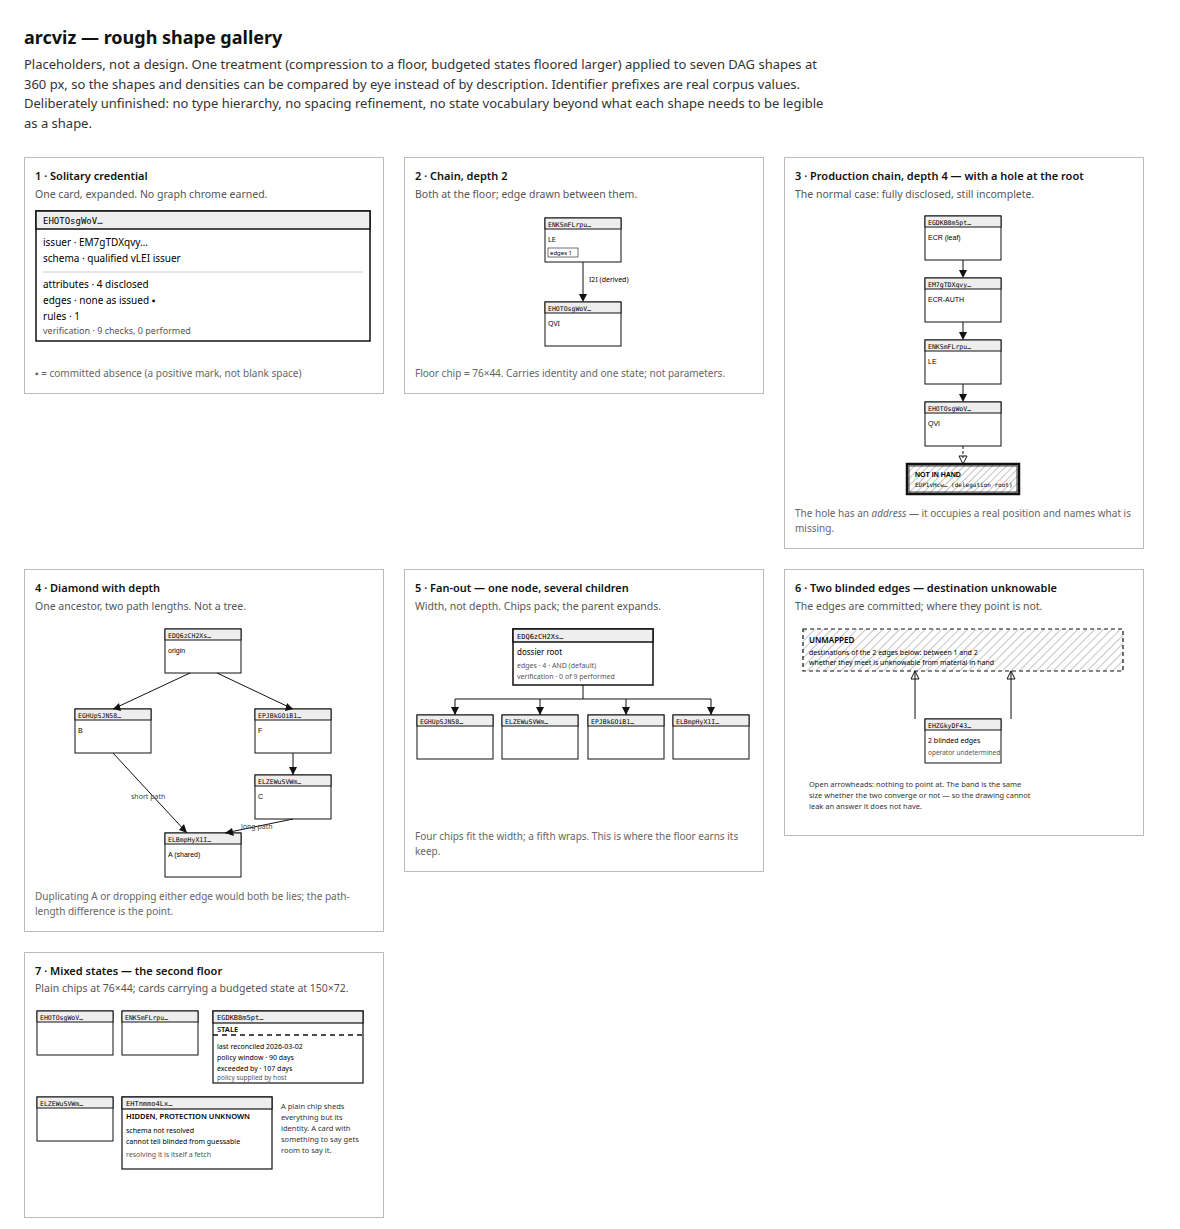
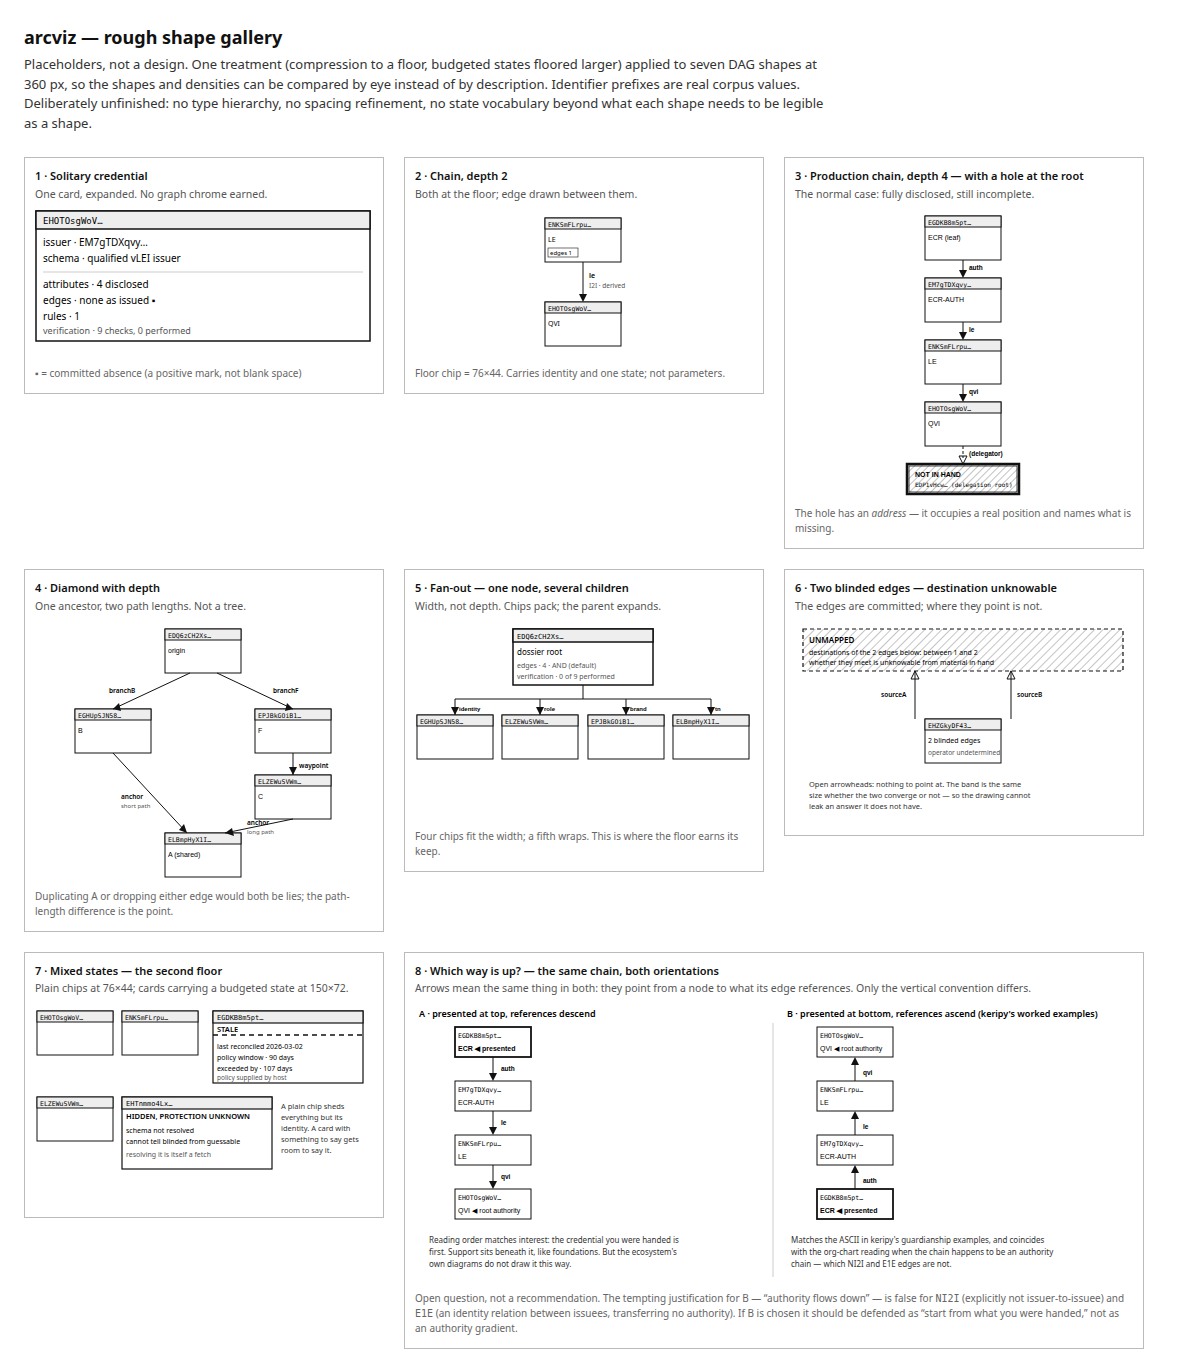
Gallery: label the edges, and draw both orientations
ACDC edges carry a label - the map key in the e section - and that is
where the meaning lives: auth, le, qvi, waypoint, sourceA and sourceB, and
an edge group of unanimous, anyOne, average and weightedAverage. The first
pass drew bare arrows, which say related-somehow where the credential said
something specific. Labels now sit alongside the derived operator.

An edge label is issuer-chosen text and therefore untrusted content, so it
must render inside the issuer boundary rather than as viewer chrome.

Adds a panel drawing the same chain both ways up. The ecosystem has a
convention the first pass contradicted: keripy's guardianship worked
examples put the presented node at the bottom with references ascending,
label on the arrow beside the operator. Logged as an open question rather
than adopted, because the tempting justification is false - authority does
not flow down an NI2I edge, which explicitly is not issuer-to-issuee, nor
an E1E edge, which relates two issuees and transfers nothing. If that
orientation is chosen it should rest on start-from-what-you-were-handed,
which holds for every edge type.

diff --git a/docs/design/shape-gallery/gallery.html b/docs/design/shape-gallery/gallery.html
@@ -51,7 +51,7 @@
   </g>
   <line x1="168" y1="52" x2="168" y2="86" stroke="#111"/>
   <polygon points="168,92 164,84 172,84" fill="#111"/>
-  <text x="174" y="72" font-size="7">I2I (derived)</text>
+  <text x="174" y="68" font-size="7" font-weight="600">le</text><text x="174" y="78" font-size="6.5" fill="#555">I2I · derived</text>
   <g>
     <rect x="130" y="92" width="76" height="44" fill="#fff" stroke="#111"/>
     <rect x="130" y="92" width="76" height="11" fill="#eee" stroke="#111"/>
@@ -70,16 +70,16 @@
   <g font-family="monospace" font-size="6.5">
     <rect x="130" y="6" width="76" height="44" fill="#fff" stroke="#111"/><rect x="130" y="6" width="76" height="11" fill="#eee" stroke="#111"/>
     <text x="133" y="14.5">EGDKB8m5pt…</text><text x="133" y="30" font-family="sans-serif" font-size="7">ECR (leaf)</text>
-    <line x1="168" y1="50" x2="168" y2="62" stroke="#111"/><polygon points="168,68 164,60 172,60" fill="#111"/>
+    <line x1="168" y1="50" x2="168" y2="62" stroke="#111"/><polygon points="168,68 164,60 172,60" fill="#111"/><text x="174" y="60" font-size="6.5" font-weight="600" font-family="sans-serif">auth</text>
     <rect x="130" y="68" width="76" height="44" fill="#fff" stroke="#111"/><rect x="130" y="68" width="76" height="11" fill="#eee" stroke="#111"/>
     <text x="133" y="76.5">EM7gTDXqvy…</text><text x="133" y="92" font-family="sans-serif" font-size="7">ECR-AUTH</text>
-    <line x1="168" y1="112" x2="168" y2="124" stroke="#111"/><polygon points="168,130 164,122 172,122" fill="#111"/>
+    <line x1="168" y1="112" x2="168" y2="124" stroke="#111"/><polygon points="168,130 164,122 172,122" fill="#111"/><text x="174" y="122" font-size="6.5" font-weight="600" font-family="sans-serif">le</text>
     <rect x="130" y="130" width="76" height="44" fill="#fff" stroke="#111"/><rect x="130" y="130" width="76" height="11" fill="#eee" stroke="#111"/>
     <text x="133" y="138.5">ENKSmFLrpu…</text><text x="133" y="154" font-family="sans-serif" font-size="7">LE</text>
-    <line x1="168" y1="174" x2="168" y2="186" stroke="#111"/><polygon points="168,192 164,184 172,184" fill="#111"/>
+    <line x1="168" y1="174" x2="168" y2="186" stroke="#111"/><polygon points="168,192 164,184 172,184" fill="#111"/><text x="174" y="184" font-size="6.5" font-weight="600" font-family="sans-serif">qvi</text>
     <rect x="130" y="192" width="76" height="44" fill="#fff" stroke="#111"/><rect x="130" y="192" width="76" height="11" fill="#eee" stroke="#111"/>
     <text x="133" y="200.5">EHOTOsgWoV…</text><text x="133" y="216" font-family="sans-serif" font-size="7">QVI</text>
-    <line x1="168" y1="236" x2="168" y2="248" stroke="#111" stroke-dasharray="3 2"/><polygon points="168,254 164,246 172,246" fill="none" stroke="#111"/>
+    <line x1="168" y1="236" x2="168" y2="248" stroke="#111" stroke-dasharray="3 2"/><text x="174" y="246" font-size="6.5" font-weight="600" font-family="sans-serif">(delegator)</text><polygon points="168,254 164,246 172,246" fill="none" stroke="#111"/>
   </g>
   <defs><pattern id="h1" width="5" height="5" patternUnits="userSpaceOnUse" patternTransform="rotate(45)">
     <line x1="0" y1="0" x2="0" y2="5" stroke="#999" stroke-width="1.2"/></pattern></defs>
@@ -117,8 +117,8 @@
   <line x1="258" y1="130" x2="258" y2="152" stroke="#111"/><polygon points="258,152 254,144 262,144" fill="#111"/>
   <path d="M78 130 L 152 210" fill="none" stroke="#111"/><polygon points="152,210 144,207 149,201" fill="#111"/>
   <path d="M258 196 L 190 210" fill="none" stroke="#111"/><polygon points="190,210 197,205 199,213" fill="#111"/>
-  <text x="96" y="176" font-size="7" fill="#444">short path</text>
-  <text x="206" y="206" font-size="7" fill="#444">long path</text>
+  <text x="74" y="70" font-size="6.5" font-weight="600">branchB</text><text x="238" y="70" font-size="6.5" font-weight="600">branchF</text><text x="264" y="145" font-size="6.5" font-weight="600">waypoint</text><text x="86" y="176" font-size="6.5" font-weight="600">anchor</text><text x="86" y="185" font-size="6" fill="#555">short path</text>
+  <text x="212" y="202" font-size="6.5" font-weight="600">anchor</text><text x="212" y="211" font-size="6" fill="#555">long path</text>
 </svg>
 <p class="note">Duplicating A or dropping either edge would both be lies; the path-length difference is the point.</p>
 </div>
@@ -138,22 +138,22 @@
     <line x1="168" y1="62" x2="168" y2="76" stroke="#111"/>
     <line x1="40" y1="76" x2="296" y2="76" stroke="#111"/>
     <g>
-      <line x1="40" y1="76" x2="40" y2="92" stroke="#111"/><polygon points="40,92 36,84 44,84" fill="#111"/>
+      <line x1="40" y1="76" x2="40" y2="92" stroke="#111"/><text x="44" y="88" font-size="6" font-weight="600" font-family="sans-serif">identity</text><polygon points="40,92 36,84 44,84" fill="#111"/>
       <rect x="2" y="92" width="76" height="44" fill="#fff" stroke="#111"/><rect x="2" y="92" width="76" height="11" fill="#eee" stroke="#111"/>
       <text x="5" y="100.5">EGHUpSJN58…</text>
     </g>
     <g>
-      <line x1="125" y1="76" x2="125" y2="92" stroke="#111"/><polygon points="125,92 121,84 129,84" fill="#111"/>
+      <line x1="125" y1="76" x2="125" y2="92" stroke="#111"/><text x="129" y="88" font-size="6" font-weight="600" font-family="sans-serif">role</text><polygon points="125,92 121,84 129,84" fill="#111"/>
       <rect x="87" y="92" width="76" height="44" fill="#fff" stroke="#111"/><rect x="87" y="92" width="76" height="11" fill="#eee" stroke="#111"/>
       <text x="90" y="100.5">ELZEWuSVWm…</text>
     </g>
     <g>
-      <line x1="211" y1="76" x2="211" y2="92" stroke="#111"/><polygon points="211,92 207,84 215,84" fill="#111"/>
+      <line x1="211" y1="76" x2="211" y2="92" stroke="#111"/><text x="215" y="88" font-size="6" font-weight="600" font-family="sans-serif">brand</text><polygon points="211,92 207,84 215,84" fill="#111"/>
       <rect x="173" y="92" width="76" height="44" fill="#fff" stroke="#111"/><rect x="173" y="92" width="76" height="11" fill="#eee" stroke="#111"/>
       <text x="176" y="100.5">EPJBkGOiB1…</text>
     </g>
     <g>
-      <line x1="296" y1="76" x2="296" y2="92" stroke="#111"/><polygon points="296,92 292,84 300,84" fill="#111"/>
+      <line x1="296" y1="76" x2="296" y2="92" stroke="#111"/><text x="300" y="88" font-size="6" font-weight="600" font-family="sans-serif">tn</text><polygon points="296,92 292,84 300,84" fill="#111"/>
       <rect x="258" y="92" width="76" height="44" fill="#fff" stroke="#111"/><rect x="258" y="92" width="76" height="11" fill="#eee" stroke="#111"/>
       <text x="261" y="100.5">ELBmpHyX1I…</text>
     </g>
@@ -173,8 +173,8 @@
   <text x="14" y="20" font-size="8" font-weight="600">UNMAPPED</text>
   <text x="14" y="32" font-size="7">destinations of the 2 edges below: between 1 and 2</text>
   <text x="14" y="42" font-size="7">whether they meet is unknowable from material in hand</text>
-  <line x1="120" y1="48" x2="120" y2="96" stroke="#111"/><polygon points="120,48 116,56 124,56" fill="none" stroke="#111"/>
-  <line x1="216" y1="48" x2="216" y2="96" stroke="#111"/><polygon points="216,48 212,56 220,56" fill="none" stroke="#111"/>
+  <line x1="120" y1="48" x2="120" y2="96" stroke="#111"/><text x="86" y="74" font-size="6.5" font-weight="600">sourceA</text><polygon points="120,48 116,56 124,56" fill="none" stroke="#111"/>
+  <line x1="216" y1="48" x2="216" y2="96" stroke="#111"/><text x="222" y="74" font-size="6.5" font-weight="600">sourceB</text><polygon points="216,48 212,56 220,56" fill="none" stroke="#111"/>
   <rect x="130" y="96" width="76" height="44" fill="#fff" stroke="#111"/>
   <rect x="130" y="96" width="76" height="11" fill="#eee" stroke="#111"/>
   <text x="133" y="104.5" font-size="6.5" font-family="monospace">EHZGkyDF43…</text>
@@ -229,4 +229,42 @@
 </svg>
 </div>
 
+
+<!-- 8. orientation -->
+<div class="panel" style="width:740px">
+<p class="cap">8 · Which way is up? — the same chain, both orientations</p>
+<p class="sub">Arrows mean the same thing in both: they point from a node to what its edge references. Only the vertical convention differs.</p>
+<svg width="716" height="280" viewBox="0 0 716 280">
+  <text x="4" y="12" font-size="9" font-weight="600">A · presented at top, references descend</text>
+  <text x="372" y="12" font-size="9" font-weight="600">B · presented at bottom, references ascend  (keripy's worked examples)</text>
+  <g font-family="monospace" font-size="6.5">
+    <rect x="40" y="22" width="76" height="30" fill="#fff" stroke="#111" stroke-width="1.8"/><text x="43" y="33">EGDKB8m5pt…</text><text x="43" y="46" font-family="sans-serif" font-size="7" font-weight="600">ECR ◀ presented</text>
+    <line x1="78" y1="52" x2="78" y2="70" stroke="#111"/><polygon points="78,76 74,68 82,68" fill="#111"/><text x="86" y="66" font-family="sans-serif" font-size="6.5" font-weight="600">auth</text>
+    <rect x="40" y="76" width="76" height="30" fill="#fff" stroke="#111"/><text x="43" y="87">EM7gTDXqvy…</text><text x="43" y="100" font-family="sans-serif" font-size="7">ECR-AUTH</text>
+    <line x1="78" y1="106" x2="78" y2="124" stroke="#111"/><polygon points="78,130 74,122 82,122" fill="#111"/><text x="86" y="120" font-family="sans-serif" font-size="6.5" font-weight="600">le</text>
+    <rect x="40" y="130" width="76" height="30" fill="#fff" stroke="#111"/><text x="43" y="141">ENKSmFLrpu…</text><text x="43" y="154" font-family="sans-serif" font-size="7">LE</text>
+    <line x1="78" y1="160" x2="78" y2="178" stroke="#111"/><polygon points="78,184 74,176 82,176" fill="#111"/><text x="86" y="174" font-family="sans-serif" font-size="6.5" font-weight="600">qvi</text>
+    <rect x="40" y="184" width="76" height="30" fill="#fff" stroke="#111"/><text x="43" y="195">EHOTOsgWoV…</text><text x="43" y="208" font-family="sans-serif" font-size="7">QVI ◀ root authority</text>
+  </g>
+  <text x="14" y="238" font-size="8" fill="#333">Reading order matches interest: the credential you were handed is</text>
+  <text x="14" y="250" font-size="8" fill="#333">first. Support sits beneath it, like foundations. But the ecosystem's</text>
+  <text x="14" y="262" font-size="8" fill="#333">own diagrams do not draw it this way.</text>
+
+  <line x1="358" y1="18" x2="358" y2="272" stroke="#ccc"/>
+
+  <g font-family="monospace" font-size="6.5">
+    <rect x="402" y="22" width="76" height="30" fill="#fff" stroke="#111"/><text x="405" y="33">EHOTOsgWoV…</text><text x="405" y="46" font-family="sans-serif" font-size="7">QVI ◀ root authority</text>
+    <line x1="440" y1="76" x2="440" y2="58" stroke="#111"/><polygon points="440,52 436,60 444,60" fill="#111"/><text x="448" y="70" font-family="sans-serif" font-size="6.5" font-weight="600">qvi</text>
+    <rect x="402" y="76" width="76" height="30" fill="#fff" stroke="#111"/><text x="405" y="87">ENKSmFLrpu…</text><text x="405" y="100" font-family="sans-serif" font-size="7">LE</text>
+    <line x1="440" y1="130" x2="440" y2="112" stroke="#111"/><polygon points="440,106 436,114 444,114" fill="#111"/><text x="448" y="124" font-family="sans-serif" font-size="6.5" font-weight="600">le</text>
+    <rect x="402" y="130" width="76" height="30" fill="#fff" stroke="#111"/><text x="405" y="141">EM7gTDXqvy…</text><text x="405" y="154" font-family="sans-serif" font-size="7">ECR-AUTH</text>
+    <line x1="440" y1="184" x2="440" y2="166" stroke="#111"/><polygon points="440,160 436,168 444,168" fill="#111"/><text x="448" y="178" font-family="sans-serif" font-size="6.5" font-weight="600">auth</text>
+    <rect x="402" y="184" width="76" height="30" fill="#fff" stroke="#111" stroke-width="1.8"/><text x="405" y="195">EGDKB8m5pt…</text><text x="405" y="208" font-family="sans-serif" font-size="7" font-weight="600">ECR ◀ presented</text>
+  </g>
+  <text x="376" y="238" font-size="8" fill="#333">Matches the ASCII in keripy's guardianship examples, and coincides</text>
+  <text x="376" y="250" font-size="8" fill="#333">with the org-chart reading when the chain happens to be an authority</text>
+  <text x="376" y="262" font-size="8" fill="#333">chain — which NI2I and E1E edges are not.</text>
+</svg>
+<p class="note">Open question, not a recommendation. The tempting justification for B — &ldquo;authority flows down&rdquo; — is false for <code>NI2I</code> (explicitly not issuer-to-issuee) and <code>E1E</code> (an identity relation between issuees, transferring no authority). If B is chosen it should be defended as &ldquo;start from what you were handed,&rdquo; not as an authority gradient.</p>
+</div>
 </div>

diff --git a/docs/design/shape-gallery/README.md b/docs/design/shape-gallery/README.md
@@ -17,3 +17,13 @@ What has been measured, in Chrome at 360 px, is total rendered content height pe
 A 76×44 chip holds an identifier prefix and one short word. Seeing it makes the stress board's finding — that the floor holds states but not parameters — concrete in a way the sentence does not: there is visibly nowhere to put a policy window, a horizon, or a cardinality bound.
 
 The second floor at 150×72 is not a marginal upgrade over the chip. It is the difference between a token and a card that can say something. Panel 7 puts them side by side.
+
+## Two things the gallery got wrong on the first pass
+
+**Edges were drawn unlabelled.** ACDC edges carry a label — it is the map key in the `e` section — and the label is where the meaning lives. Real examples from `corpus/`: `auth`, `le`, `qvi`, `waypoint`, `sourceA`/`sourceB`, and an edge group whose members are `unanimous`, `anyOne`, `average`, `weightedAverage`. Two edges leaving one node can mean entirely different things, so an unlabelled arrow says "related somehow" where the credential said something specific. Panels 2–6 now carry labels alongside the derived operator.
+
+A consequence worth carrying into the design: **an edge label is issuer-chosen text**, so it is untrusted content under P11. It must render inside the issuer-controlled boundary rather than as viewer chrome, or an issuer can label an edge "verified by GLEIF" and have it read as the component's own words.
+
+**Orientation was picked without noticing there is a convention.** Panel 8 draws the same chain both ways. The ecosystem's own diagrams — the ASCII in keripy's guardianship worked examples — put the **presented node at the bottom with references ascending**, and carry the edge label on the arrow beside the operator. The first pass of this gallery did the opposite.
+
+This is logged as an open question rather than a recommendation, because the obvious justification for the ecosystem convention is wrong. "Authority flows downward" is false for `NI2I`, which explicitly means *not* issuer-to-issuee, and for `E1E`, which relates two issuees and transfers no authority at all. If presented-at-bottom is adopted it should be defended as *start from what you were handed and look at what it points to* — a reading-order argument that holds for every edge type — rather than as an authority gradient that holds for one.
